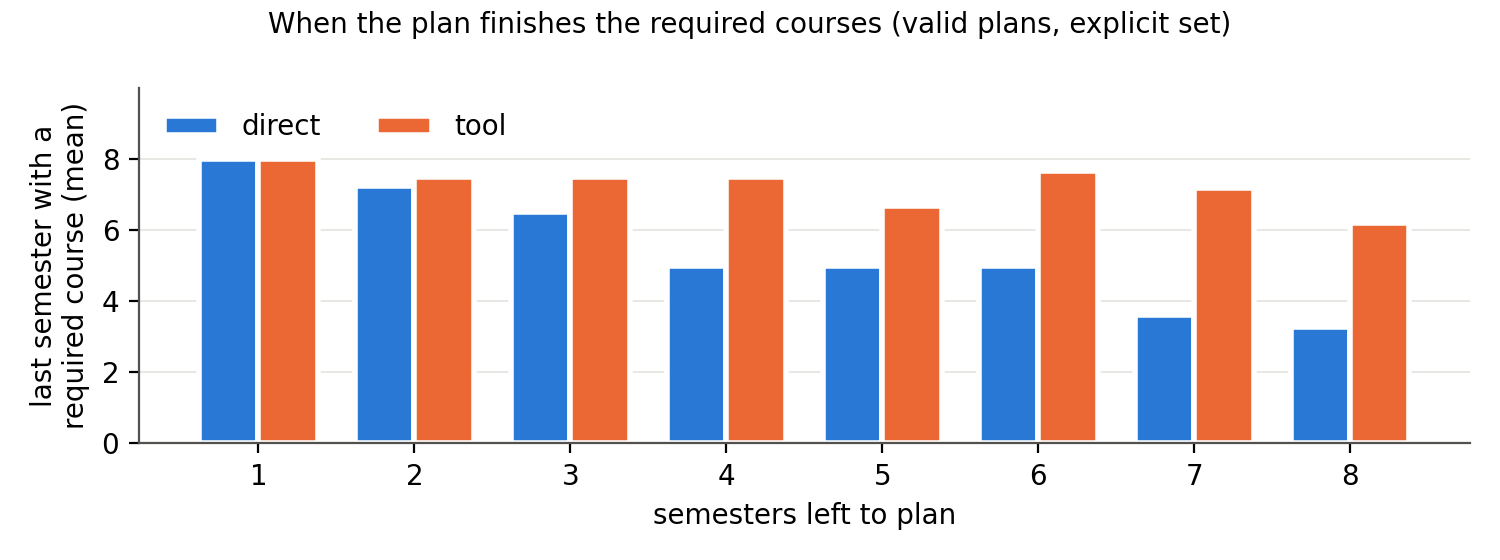
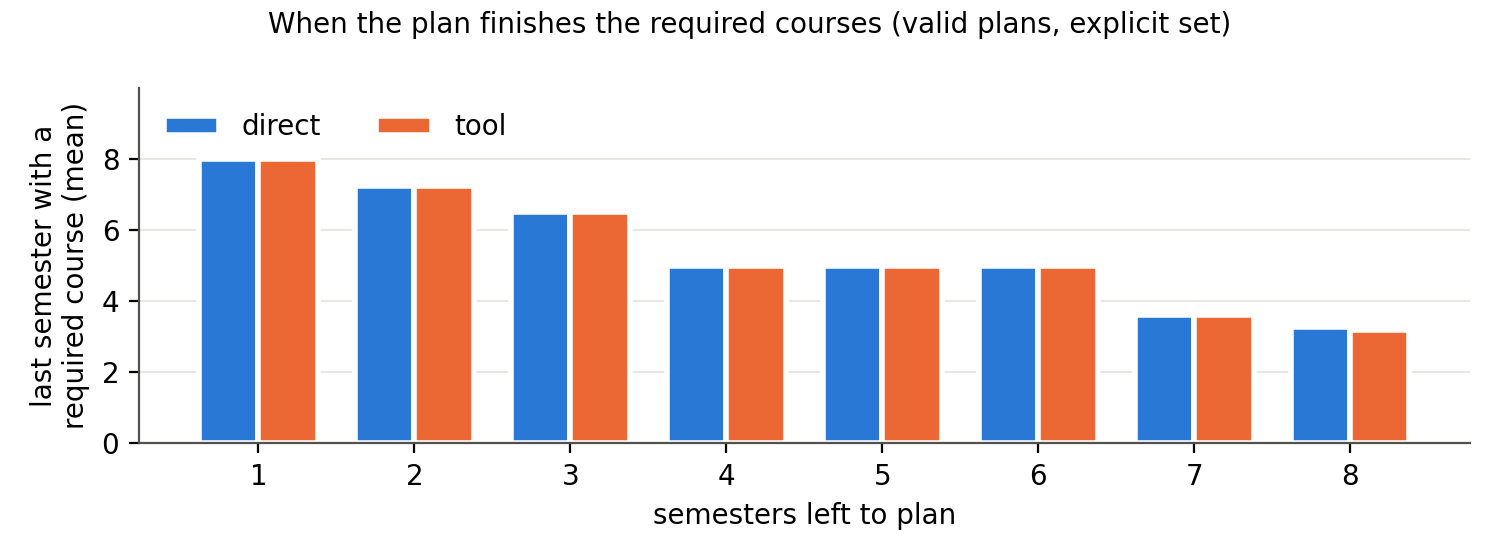
Update the analysis for the solver objective, with a re-run of gold

diff --git a/docs/analysis.md b/docs/analysis.md
@@ -4,7 +4,7 @@ The numbers behind the report (design.md section 8), and what they suggest. Ever
 
 ```sh
 python -m planner.analyze results/2026-11-03-1932-direct.jsonl results/2026-11-03-1932-tool.jsonl \
-  results/2026-11-04-1112-gold.jsonl results/2026-11-04-1117-direct.jsonl results/2026-11-04-1119-tool.jsonl \
+  results/2026-11-07-1314-gold.jsonl results/2026-11-04-1117-direct.jsonl results/2026-11-04-1119-tool.jsonl \
   --figures docs/figures
 ```
 
@@ -18,13 +18,14 @@ All LLM calls used Claude Sonnet 5.5 with adaptive thinking at effort `high` (de
 |---|---|---|
 | `results/2026-11-03-1932-direct.jsonl` | Direct, explicit set, 3 runs | $2.83 |
 | `results/2026-11-03-1932-tool.jsonl` | Tool, explicit set, 3 runs | $0.51 |
-| `results/2026-11-04-1112-gold.jsonl` | Gold ablation, re-run with the deterministic solver | free |
+| `results/2026-11-07-1314-gold.jsonl` | Gold ablation, re-run with the solver objective (design.md 6.2) | free |
 | `results/2026-11-04-1117-direct.jsonl` | Direct, reworded set, 3 runs | $3.04 |
 | `results/2026-11-04-1119-tool.jsonl` | Tool, reworded set, 3 runs | $0.66 |
+| `results/2026-11-04-1112-gold.jsonl` | Gold, solver without the objective (only in section 5's last row) | free |
 | `results/2026-11-03-1931-tool.jsonl` | Tool pilot on the 5 examples, 1 run (not in the tables) | $0.02 |
 | `results/2026-11-04-1114-tool.jsonl` | Tool pilot on the reworded set, 1 run, used only to check the messages (not in the tables) | $0.23 |
 
-These files cost $7.29 in all. The 27 Oct direct pilot adds $0.12. The tool plans in the 2026-11-03 file came from the solver before it was made deterministic. `planner/analyze.py` re-solves every saved translation with the current solver, and no outcome changed.
+These files cost $7.29 in all. The 27 Oct direct pilot adds $0.12. The tool plans saved in both tool files came from earlier versions of the solver. `planner/analyze.py` re-solves every saved translation with the current solver, which has the objective, and no outcome changed.
 
 ## Summary
 
@@ -43,11 +44,11 @@ These files cost $7.29 in all. The 27 Oct direct pilot adds $0.12. The tool plan
 4. **The approaches differ in cost, speed, consistency and how effort scales, not in accuracy.**
    - Direct costs 4.6-5.6 times as much per answer and takes 3.0-3.4 times as long.
    - On 25 of the 37 feasible scenarios, direct gives a different plan each run. Tool always gives the same plan.
-   - Direct's effort grows with the number of semesters to plan. The solver's doesn't (2-36 ms).
-5. **Plan quality favours direct, because the solver has no objective.**
-   - Direct puts the required courses early, like a normal study plan: the mean last semester holding a required course is 5.0, against 7.1 for tool.
-   - Direct finishes them earlier in 118 of 149 paired answers, and never later.
-   - Tool plans also add more catalog courses the student didn't ask for (9.0 a plan against 7.0-7.1) where direct uses `ELECTIVE`.
+   - Direct's effort grows with the number of semesters to plan. The solver's doesn't (milliseconds, section 7).
+5. **Plan quality: with an objective, the solver matches direct.**
+   - Without an objective, the solver left required courses late. The mean last semester holding a required course was 7.1, against direct's 5.0, and direct finished them earlier in 118 of 149 paired answers. Tool plans also named more catalog courses the student didn't ask for (9.0 a plan against 7.0-7.1).
+   - Weng Mun's objective (design.md 6.2) closes both gaps. The mean is now 4.96 for tool against 4.97-5.03 for direct. The two finish in the same semester in 145 of 149 pairs, and tool is earlier in the other 4. Tool names 6.95 catalog courses a plan.
+   - We chose the objective after seeing direct's plans, so this shows what an objective can do, not a fair contest.
 
 ## 1. Accuracy (design.md 8.1)
 
@@ -119,19 +120,21 @@ The trend isn't smooth, because the scenarios at each horizon differ in difficul
 
 ## 5. Plan quality
 
-Measured on valid plans only. None of this affects accuracy.
+Measured on valid plans only. None of this affects accuracy. Tool and gold use the solver with its objective (design.md 6.2): required and must-take courses as early as possible, then as few courses planned as possible. The last row is the solver before the objective, as the first version of this analysis measured it.
 
 | Approach | Set | Valid plans | Units sd | Hours/week sd | Catalog courses per plan | Last semester with a required course |
 |---|---|---|---|---|---|---|
 | Direct | explicit | 111 | 0.00 | 0.42 | 7.00 | 4.97 |
 | Direct | reworded | 110 | 0.00 | 0.42 | 7.14 | 5.03 |
-| Tool | explicit | 111 | 0.00 | 0.52 | 8.97 | 7.12 |
-| Tool | reworded | 111 | 0.00 | 0.52 | 8.97 | 7.12 |
-| Gold | explicit | 37 | 0.00 | 0.52 | 8.97 | 7.12 |
+| Tool | explicit | 111 | 0.00 | 0.40 | 6.95 | 4.96 |
+| Tool | reworded | 111 | 0.00 | 0.40 | 6.95 | 4.96 |
+| Gold | explicit | 37 | 0.00 | 0.40 | 6.95 | 4.96 |
+| Tool, no objective | both | 111 | 0.00 | 0.52 | 8.97 | 7.12 |
 
 - **Units can't separate the approaches.** All catalog courses but one are 4 units, so 18-23 units forces five courses (20 units) every semester. All 1924 planned semesters in valid plans have exactly 20 units. Hours per week are similarly balanced in both: the mean standard deviation is under 0.6 h, and the largest is 2 h.
-- **Required courses: direct front-loads them, and the solver doesn't.** Pairing direct and tool on the same scenario and run, direct's last required course comes earlier in 118 of 149 pairs, the same semester in 31, and later in none. The gap grows with the horizon (figure). For a new student, direct finishes the required courses by about semester 3, and the solver's plan still has one in semester 6. The solver only looks for a feasible plan (design.md 6.2), so it has no reason to schedule early. A student would see that as a worse plan, even though both are valid.
-- **The solver adds arbitrary catalog courses.** Tool plans name about 9 catalog courses where direct names 7. Where the student needs only units, direct writes `ELECTIVE`, and the solver often picks some catalog course instead.
+- **Required courses: the objective closes the gap.** Without it, the solver only looked for a feasible plan, so it had no reason to schedule early. Pairing direct and tool on the same scenario and run, direct's last required course came earlier in 118 of 149 pairs and later in none. For a new student, the solver's plan still had a required course in semester 6. With the objective, the two land in the same semester in 145 of 149 pairs, and tool is one semester earlier in the other 4 (M57, R22, R53, R56). Both finish a new student's required courses by about semester 3 (figure).
+- **Catalog courses: the objective removes the extras.** Without it, the solver filled spare units with arbitrary catalog courses, about 9 a plan where direct names 7. The objective's second part plans as few courses as possible, so tool now names 6.95 and writes `ELECTIVE` for the rest, as direct does.
+- **What the objective leaves out:** it doesn't schedule the 3 focus-area courses early. In M56, two of them land in semesters 7 and 8.
 - **Tool and gold are identical** because every translation that mattered was right.
 
 ![Last semester with a required course](figures/last-required.png)
@@ -155,26 +158,24 @@ Per scenario of the main set, from the solver's model:
 | Course-semester choices `x[c,k]` | 36 | 108 | 388 |
 | CP-SAT variables | 38 | 168 | 1155 |
 | CP-SAT constraints | 97 | 284 | 1769 |
-| Solve time (ms) | 2 | 6 | 36 |
+| Solve time (ms) | 2 | 7 | 39 |
 
-A brute-force search over the course-semester choices alone has up to 2^388 assignments. CP-SAT solves every scenario, including proving the 23 impossible ones, in under 40 ms. A direct answer takes a mean of 5-14 s, depending on the horizon.
+A brute-force search over the course-semester choices alone has up to 2^388 assignments. CP-SAT solves every scenario in under 40 ms in this run, including proving the 23 impossible ones and proving each plan is the best for the objective. Timings vary between runs, and the slowest single solve we saw took about 0.3 s. A direct answer takes a mean of 5-14 s, depending on the horizon.
 
 ## 8. Decisions for the team
 
 1. **The ceiling effect.** We ran the reworded set, and accuracy still doesn't separate the approaches.
-   - Suggestion: report it as a finding, and compare the approaches on what does differ: cost, speed, consistency, scaling with the horizon, plan quality, and guarantees.
+   - Suggestion: report it as a finding, and compare the approaches on what does differ: cost, speed, consistency, scaling with the horizon, and guarantees. Plan quality differed only until the solver had an objective (section 5).
    - On guarantees: a tool plan is valid whenever the translation is right. A direct plan has to be checked, and the validator catches both of direct's mistakes.
    - Messier input (typos, wrong codes, contradictions, missing fields) could break the tie. But the expected answer then becomes debatable, so it fits better as discussion than as a new experiment this close to the deadline.
 2. **Hybrid (open item 5).** Suggestion: drop it, and say why in the report.
    - With 2 wrong answers in 360, there's nothing for it to fix that we could measure.
    - A validator-feedback loop would probably catch both, and it's natural future work.
-3. **Optimisation (open item 6).** Section 5 gives a clear motivation. One objective in `solver.py` (for example, minimise the last semester holding a required course, or penalise catalog courses the student didn't ask for) would close the plan-quality gap.
-   - It costs no API money to evaluate: re-run gold and re-solve the saved translations, as `planner/analyze.py` already does.
-   - It's optional, if Weng Mun has time before the draft.
+3. **Optimisation (open item 6). Done.** Weng Mun added the objective to `solver.py` (design.md 6.2), and section 5 shows it closes the plan-quality gap. Evaluating it cost no API money: gold was re-run, and `planner/analyze.py` re-solved the saved translations. The report should say we chose the objective after seeing direct's plans.
 
 ## 9. Caveats
 
 - **Both sets were generated from templates** from the gold JSON, so the wording is varied but not as messy as real students' messages. The reworded set deliberately leaves out course titles and phrases like "the usual first-year mods", because neither prompt lists course titles or a recommended schedule.
 - **Sample size:** one model, 60 scenarios, 3 runs per approach and set. The 2-against-0 error count is not significant.
 - **Stand-in years:** later years use the AY2026/27 data (design.md 2).
-- **Plan quality** reflects a solver without an objective, not a limit of the tool approach as such.
+- **Plan quality:** we chose the solver's objective after seeing direct's plans, so matching them is what it was built to do. We didn't try other objectives, such as balancing hours.

diff --git a/docs/design.md b/docs/design.md
@@ -11,7 +11,7 @@ A student describes their situation in plain English. Each approach answers with
   - **Decision (team, 21 Oct): translation stays.** The project guidelines require the model to translate the problem into a specification that a tool solves, so we do not feed gold JSON to the solver in the main comparison. Translation errors are reported separately (§8.2), which addresses the worry that they add noise.
 - **Hybrid** (stretch goal, **definition undecided**, see §6.3 and §11). Not built until the Direct and Tool-assisted approaches run.
 
-Any plan that breaks none of the rules in §4 counts as correct. We don't look for a best plan (tutor Q1). Optimising plan quality is a stretch goal.
+Any plan that breaks none of the rules in §4 counts as correct, so plan quality never affects accuracy (tutor Q1). The tool solver does pick the best plan for one objective (§6.2), and plan quality is reported as a secondary metric (§8.3).
 
 ## 2. Scope and assumptions
 
@@ -321,5 +321,5 @@ The proposal's FP2 milestone (multi-semester planning by Fri 23 Oct) becomes the
 3. **Repo visibility.** The GitHub repo is public. `.gitignore` keeps the proposal (which has matric numbers and emails) and the guidelines out of it. Consider making the repo private.
 4. **Older cohorts.** A student who matriculated before AY2025/26 (e.g. a real Year 4 student today) needs their own requirements file.
 5. **Hybrid definition.** The proposal and §6.3 differ; pick one or drop it. The structured-steps version is simpler to build.
-6. **Optimisation** stays a stretch goal and is not decided.
+6. **Optimisation. Done:** the tool solver plans required and must-take courses as early as possible, then as few courses as possible (§6.2). Results are in `docs/analysis.md` section 5.
 7. **Responsible AI section.** Possible points: the risk of trusting an LLM-made plan, stand-in years, and the validator as a safeguard.
